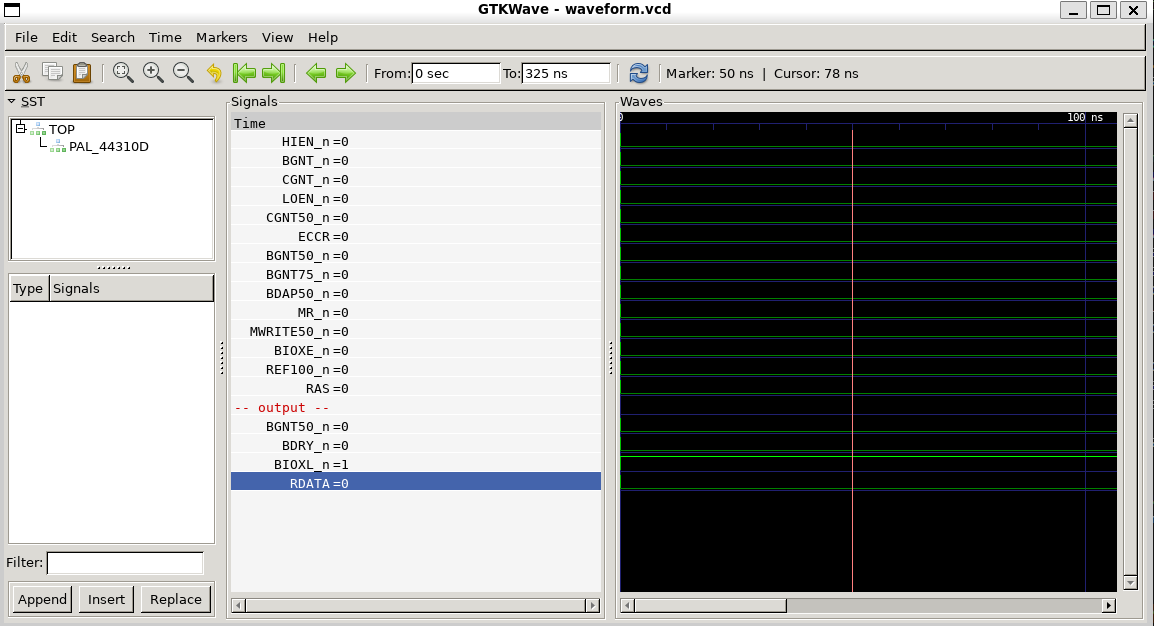
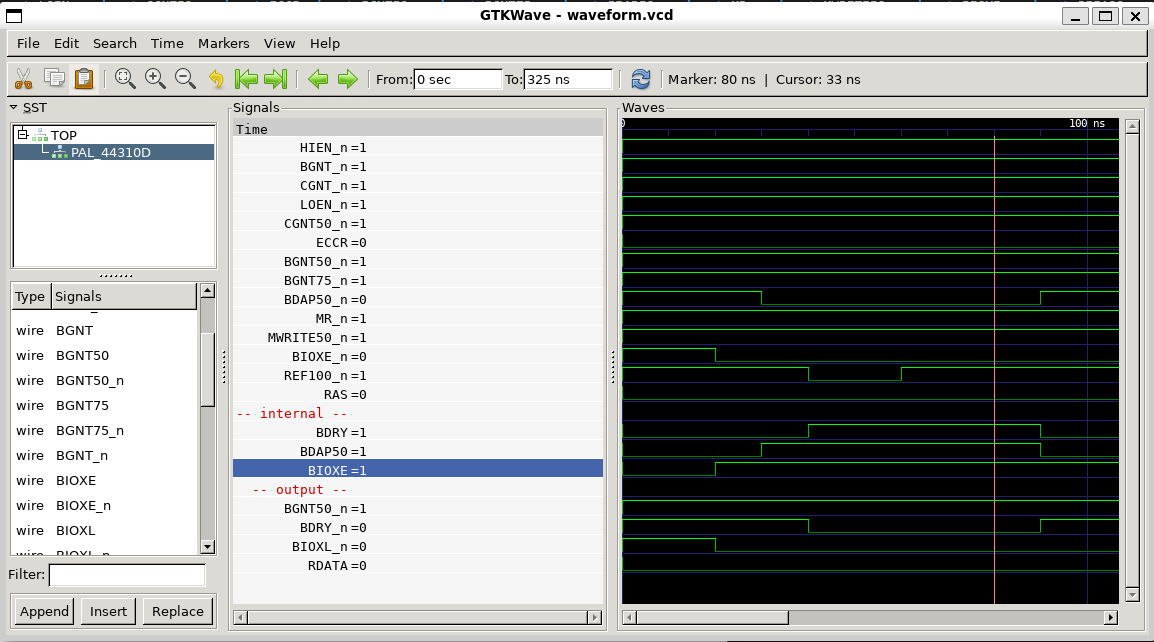
Fixed self-reference in 44310D and verified with test

Changed region(s): [[0.0, 0.0, 1.0, 1.0]]

diff --git a/Verilog/PAL/44310D/sim/test_pal.cpp b/Verilog/PAL/44310D/sim/test_pal.cpp
@@ -51,6 +51,23 @@ int main(int argc, char **argv)
 
     int errCnt = 0;
 
+    top->HIEN_n =true;
+    top->BGNT_n =true; 
+    top->CGNT_n =true;
+    top->LOEN_n =true; 
+    top->CGNT50_n =true;
+    top->ECCR=false;
+    top->BGNT50_n =true;
+    top->BGNT75_n =true;
+    top->BDAP50_n =true; 
+    top->MR_n =true;
+    top->MWRITE50_n =true; 
+    top->BIOXE_n =true; 
+    top->REF100_n =true;
+    top->RAS=false;
+
+
+
     // Iterate through each test case
     //for (const auto& test : testCases) {
     for (int i=0;i<32;i++)
@@ -64,6 +81,28 @@ int main(int argc, char **argv)
         // Assignments for input fields
         //top->LCS_n =clk;       
 
+
+        //if (i==2)        
+            //top->MR_n =false;
+
+
+        if (i==2)        
+            top->BIOXE_n =false;
+
+        if (i==3)        
+            top->BDAP50_n =false;
+
+        if (i==4)
+            top->REF100_n = false;
+
+        if (i==6)
+            top->REF100_n = true;
+
+        //if (i==8)
+        //    top->MR_n = false;
+
+        if (i==9)        
+            top->BDAP50_n =true;
 
 
         top->eval();

diff --git a/DesignDocuments/PAL-Code/Readme.md b/DesignDocuments/PAL-Code/Readme.md
@@ -48,7 +48,7 @@ Standard is 4Mb memory configured contiguosly from address 0.
 |15F     | 18          |        | 16L8-12| 12ns      | 513085   | 44305D   | CSCTL     | [D IMG](IMG/44305D.png)     | [D PDS](SRC/44305D.txt)      | [Converted.](../../Verilog/PAL/44305D/PAL_44305D.v) Needs more test |
 |21G     | 24          |7856    | 16L8-12| 12ns      | 513035   | 44306A   | MMUCTL    | [A IMG](IMG/44306A.png)     | [A PDS](SRC/44306A.txt)      | [Converted.](../../Verilog/PAL/44306A/PAL_44306A.v) Needs more test |
 |13D     | 36          |8345    | 16L8-12| 12ns      | 513085   | 44307C   | CYCLK     | [C IMG](IMG/44307C.png)     | [C PDS](SRC/44307C.txt)      | [Converted.](../../Verilog/PAL/44307C/PAL_44307C.v) Needs more test |
-|3F      | 48          |46FA    | 16L8-12| 12ns      | 513085   | 44310D   | LBDIF     | [D IMG](IMG/44310D.png)     | [D PDS](SRC/44310D.txt)      | [Almost converted. Need to fix self-reference signals.](../../Verilog/PAL/44310D/PAL_44310D.v) |
+|3F      | 48          |46FA    | 16L8-12| 12ns      | 513085   | 44310D   | LBDIF     | [D IMG](IMG/44310D.png)     | [D PDS](SRC/44310D.txt)      | [Converted.](../../Verilog/PAL/44310D/PAL_44310D.v) Tested! |
 |5D      | 6           |59AF    | 16R4D  | 10ns      | 513060   | 44401B   | BTIM      | [B IMG](IMG/44401B.png)     | [B PDS](SRC/44401B.txt)      | [Converted.](../../Verilog/PAL/44401B/PAL_44401B.v). Needs more test |
 |18F     | 25          |        | 16R4D  | 10ns      | 513060   | 44402D   | UBITS     | [D IMG](IMG/44402D.png)     | [D PDS](SRC/44402D.txt)  
 |14D     | 36          |        | 16R4D  | 10ns      | 513060   | 44403D   | CYIN0     | [C IMG](IMG/44403C.png) / [D IMG](IMG/44403D.png)    | [C PDS](SRC/44403C.txt) / Missing D | [Converted C.](../../Verilog/PAL/44403C/PAL_44403C.v) Needs more test |
